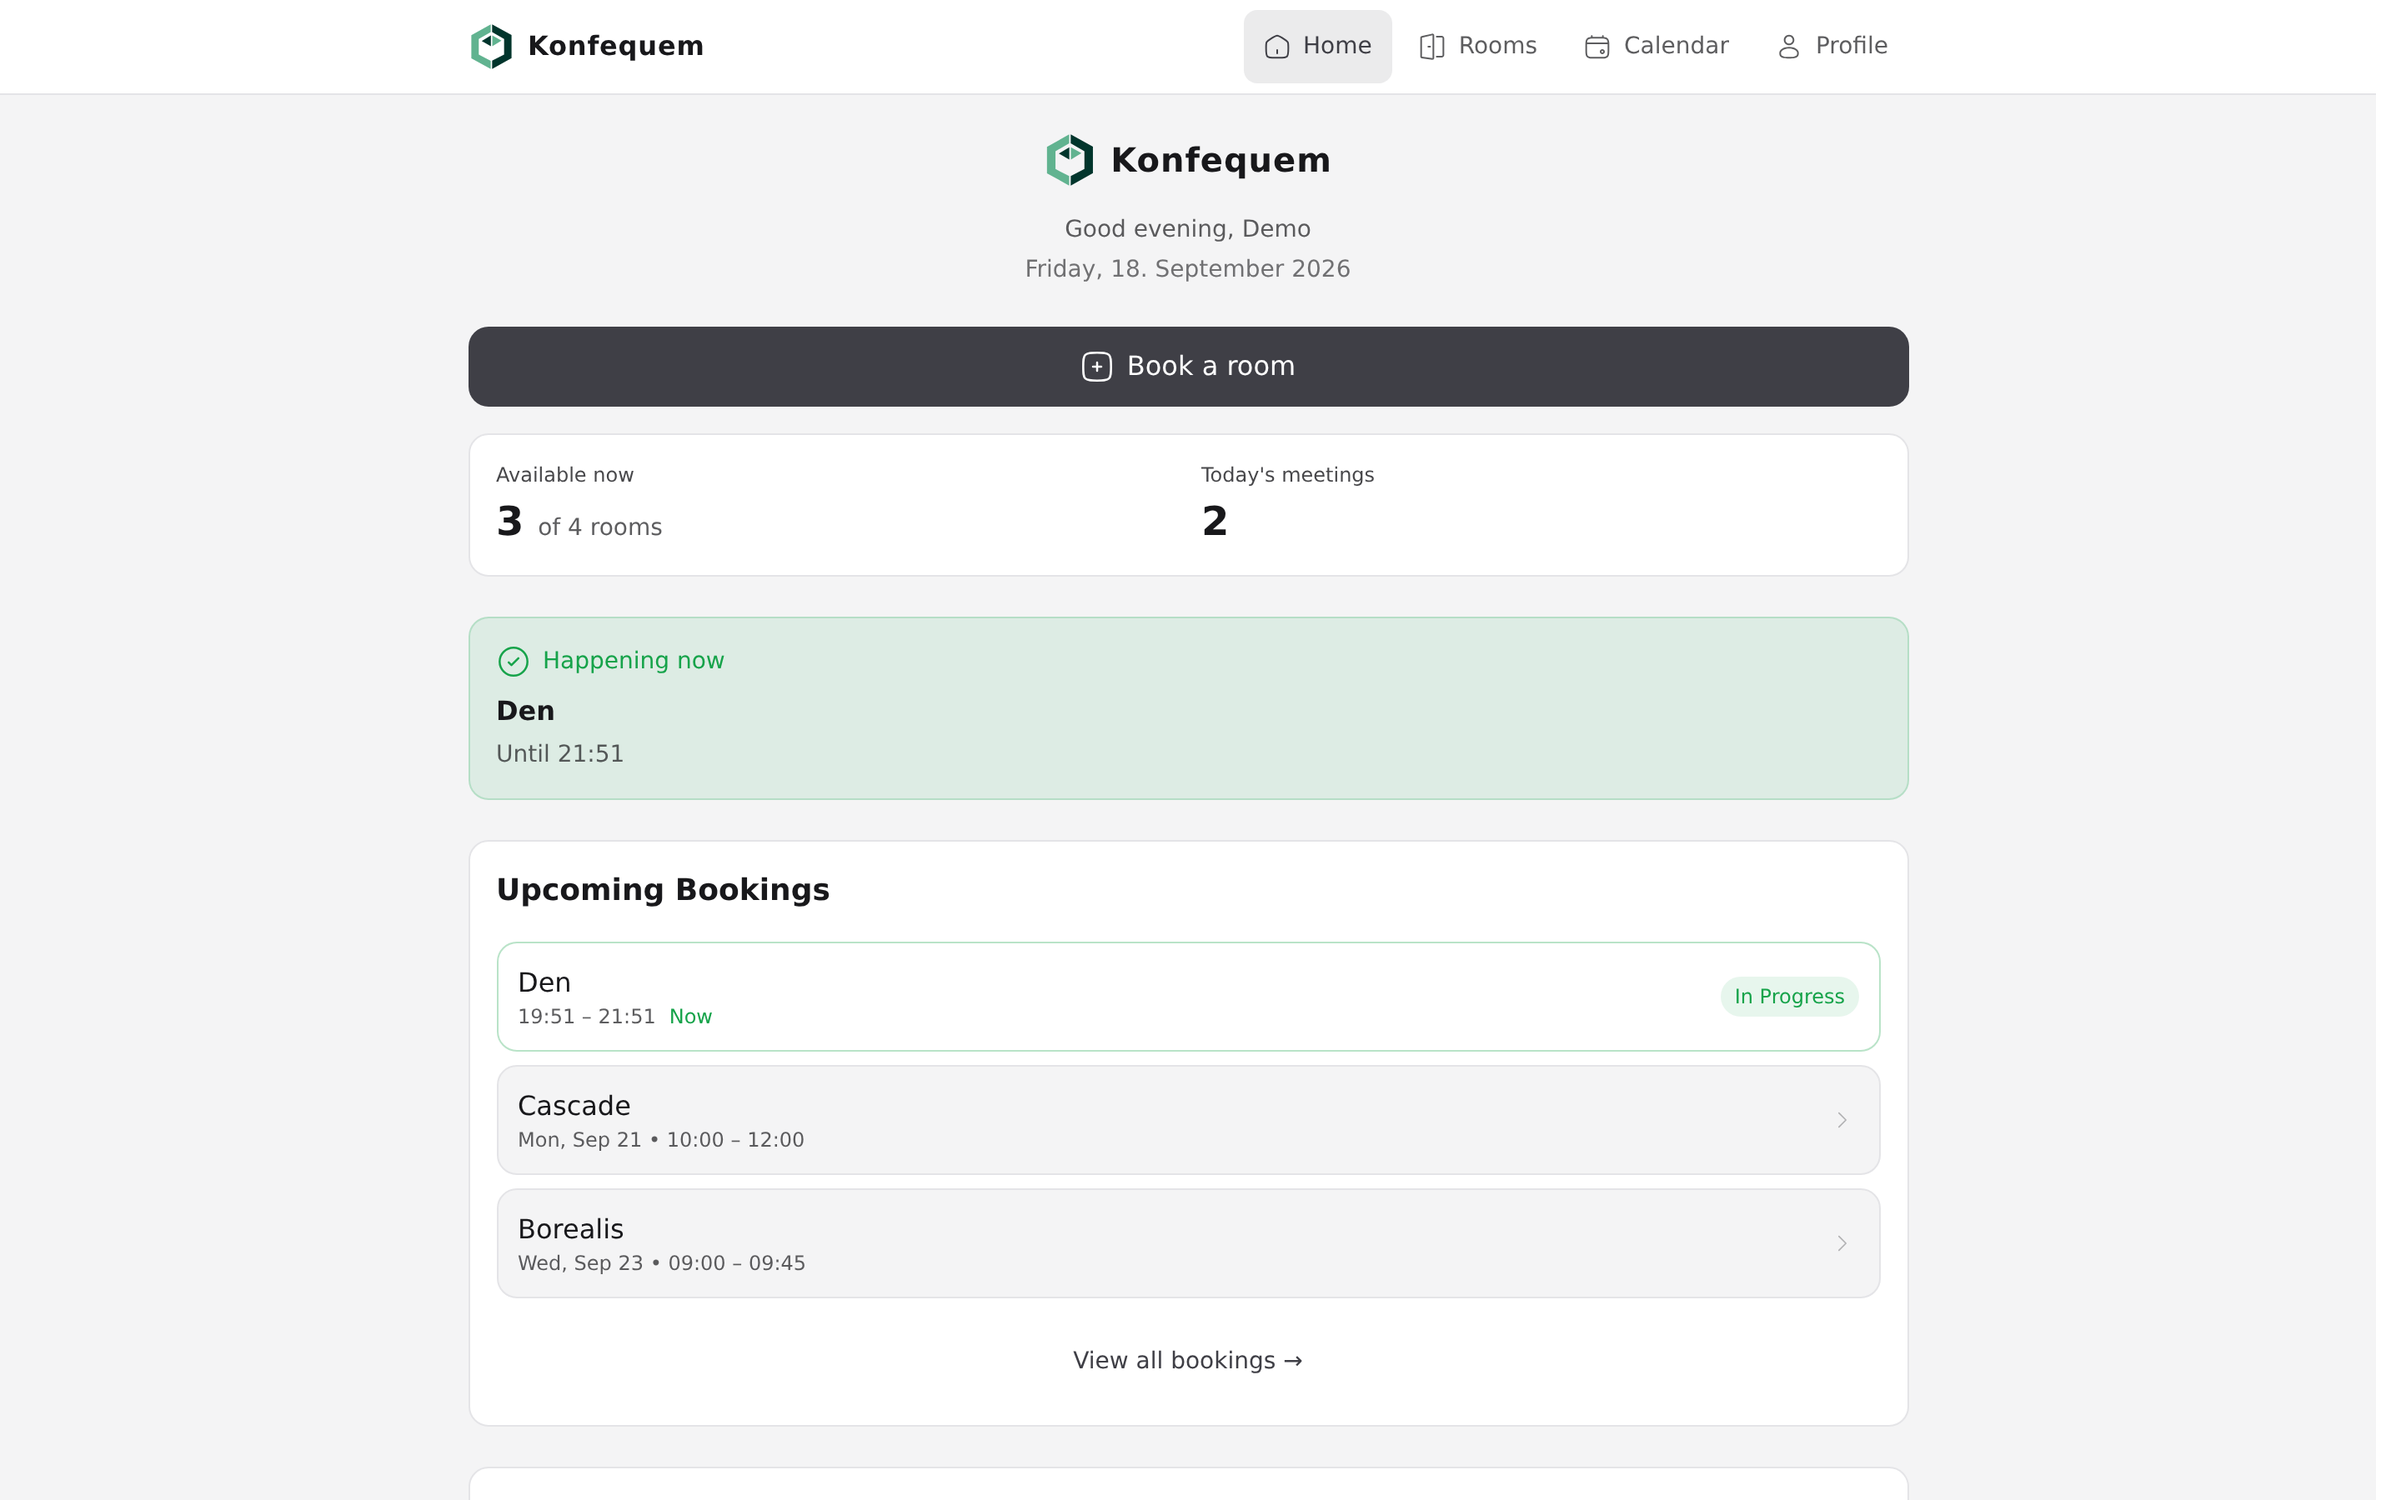
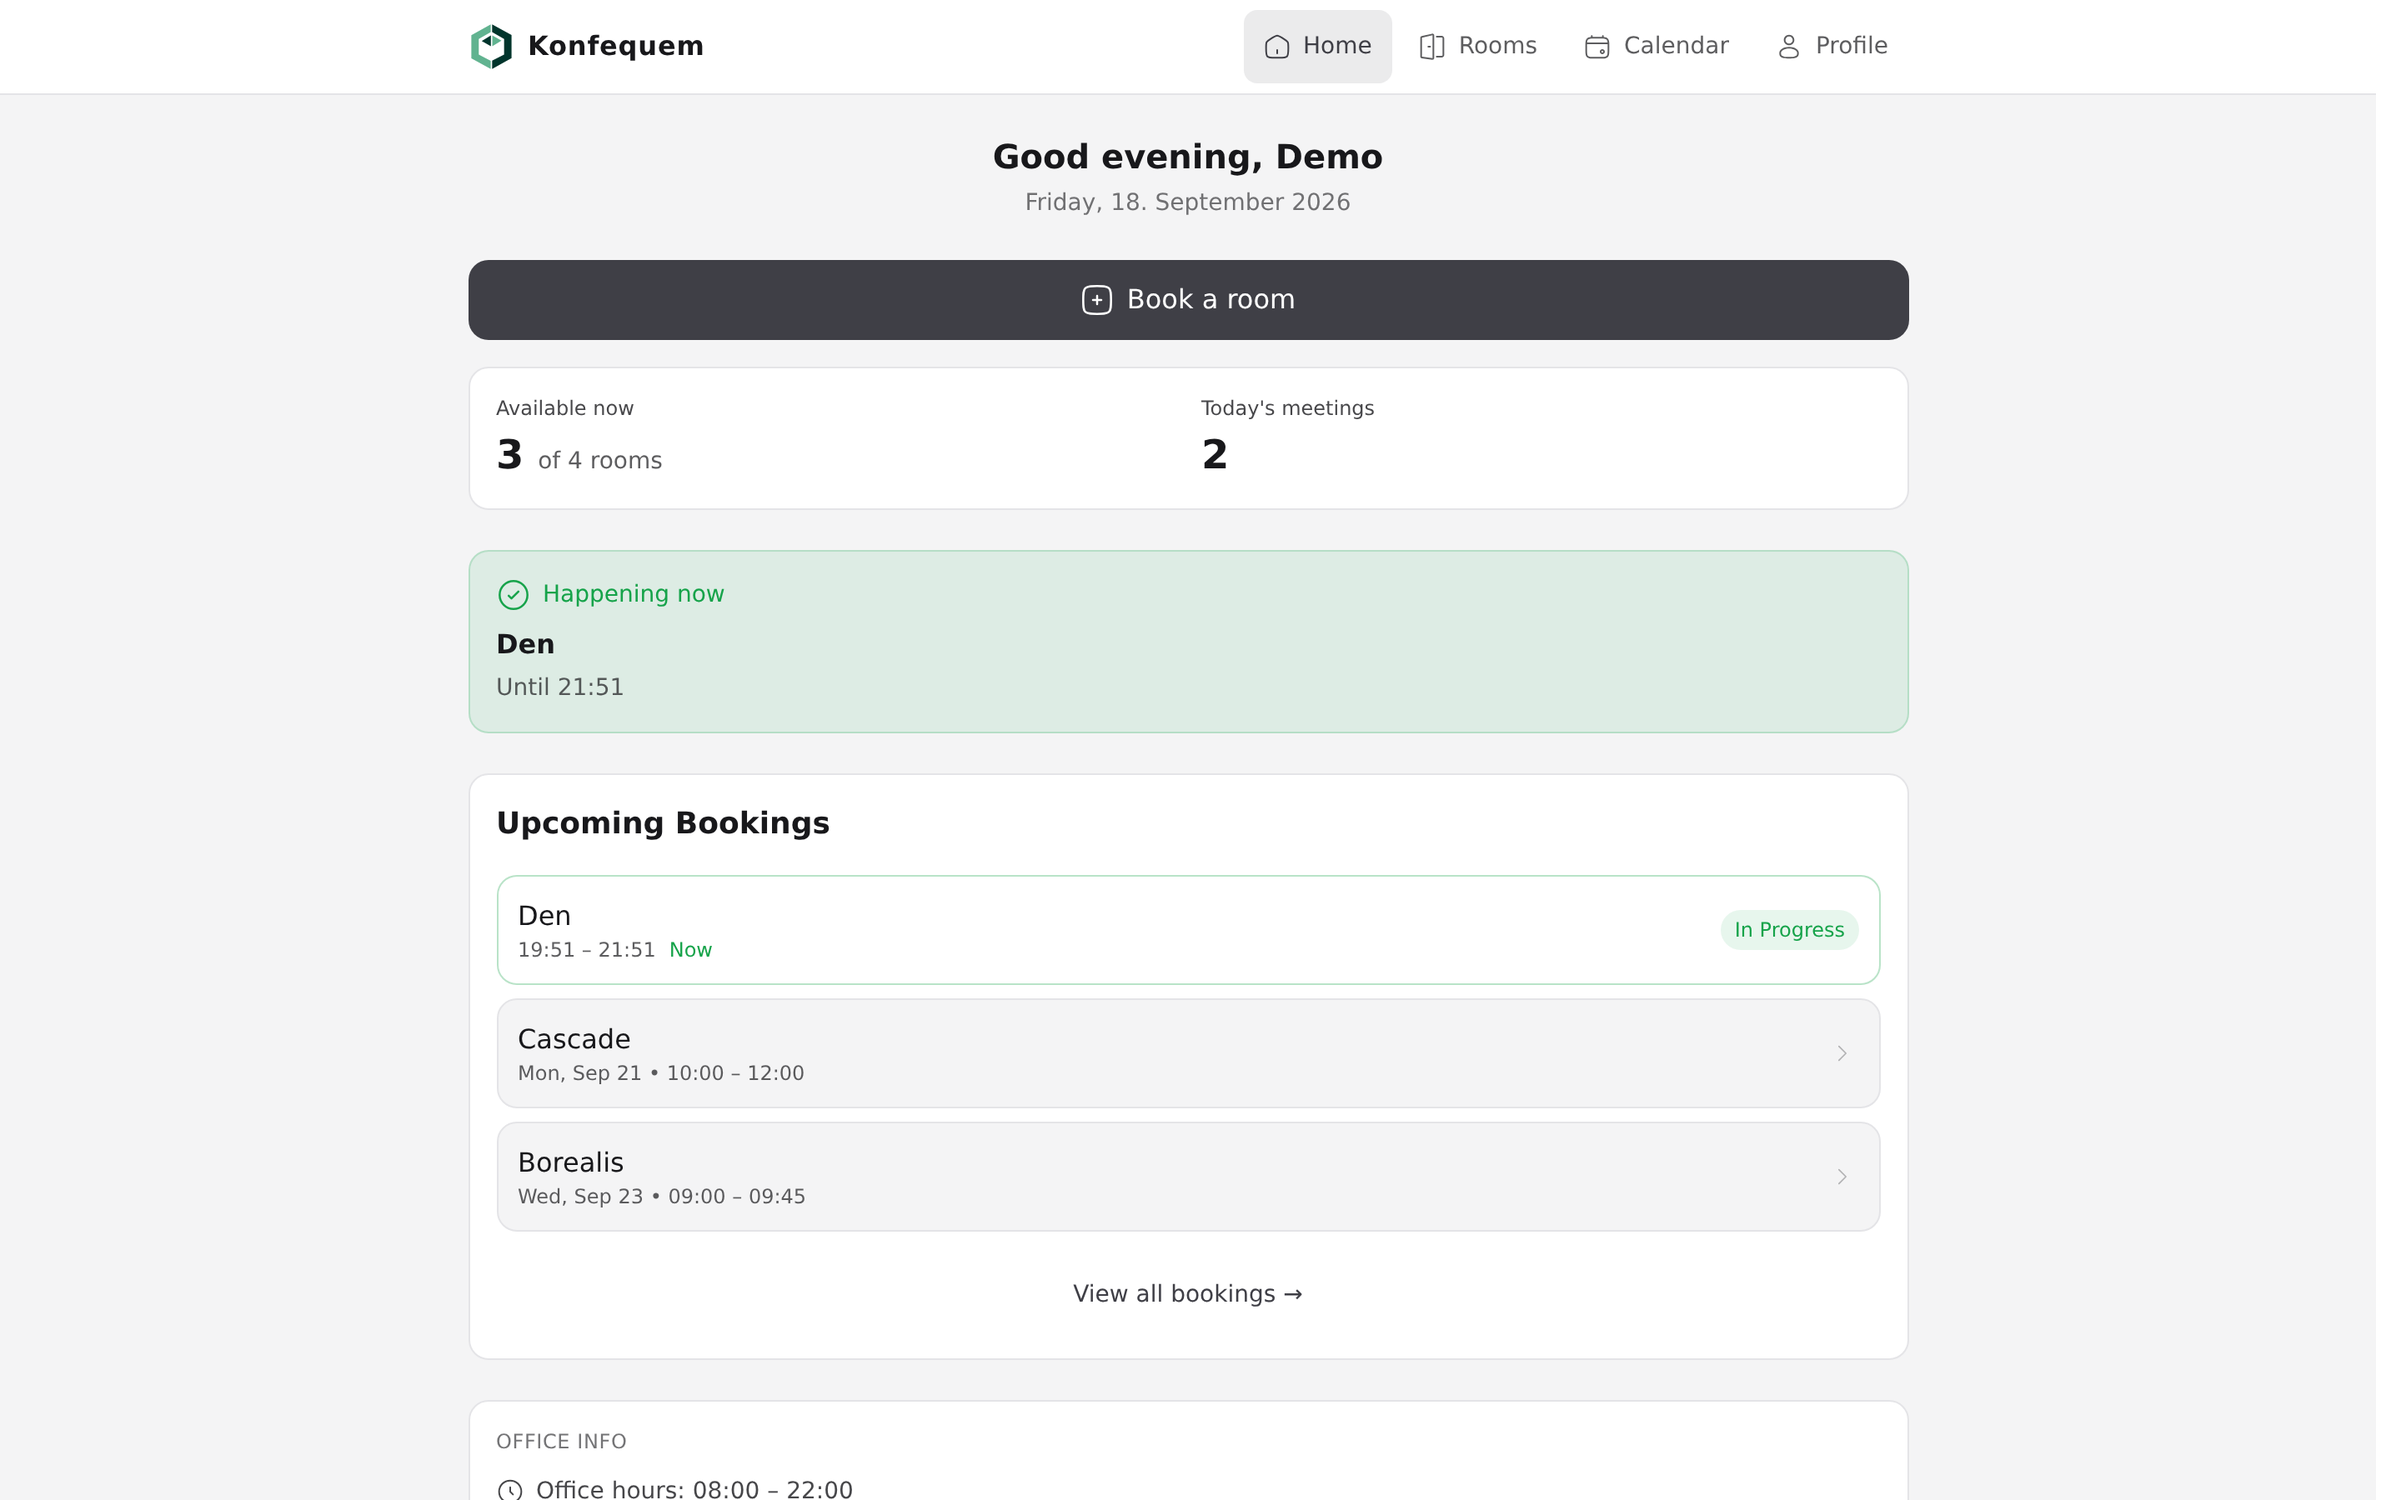
fix(frontend): drop the duplicated brand lockup on Home
The logo appeared twice on desktop since the TopNav landed: once in the
navigation bar and once in the page header. Make the greeting itself
the page heading (date stays muted below) — the brand lives in the nav,
and the loading skeleton now mirrors the greeting layout.

diff --git a/frontend/src/pages/Home.tsx b/frontend/src/pages/Home.tsx
@@ -8,7 +8,6 @@ import BottomNav from "../components/BottomNav";
 import TopNav from "../components/TopNav";
 import Button from "../components/ui/Button";
 import BookingForm from "../components/BookingForm";
-import Logo from "../components/Logo";
 import { Heading, Text } from "../components/ui/Typography";
 import { Skeleton, StatCardSkeleton, BookingListSkeleton } from "../components/ui/Skeleton";
 import EmptyState from "../components/ui/EmptyState";
@@ -199,12 +198,8 @@ export default function Home() {
       {loading && (
         <div className="px-4 pb-6 pt-6 md:pt-20 max-w-4xl mx-auto">
           <div className="mb-6">
-            <div className="flex items-center justify-center gap-1 mb-4">
-              <Skeleton className="h-5 w-28" />
-              <Skeleton className="h-5 w-5" />
-              <Skeleton className="h-5 w-28" />
-            </div>
-            <Skeleton className="h-4 w-48 mx-auto" />
+            <Skeleton className="h-6 w-52 mx-auto" />
+            <Skeleton className="h-4 w-48 mx-auto mt-2" />
           </div>
 
           <div className="grid grid-cols-2 gap-3 mb-6">
@@ -224,14 +219,10 @@ export default function Home() {
       {!loading && isAuthenticated ? (
         <div className="px-4 pb-6 pt-6 md:pt-20 max-w-4xl mx-auto">
           <section className="mb-6">
-            <div className="flex items-center justify-center gap-2 mb-4">
-              <Logo size="sm" className="h-8 w-8" alt="" />
-              <span className="text-xl font-bold tracking-wide text-accent-secondary">Konfequem</span>
-            </div>
             <div className="text-center">
-              <p className="text-sm text-accent-secondary/70">
+              <h2 className="text-xl font-semibold text-accent-secondary">
                 {getTimeBasedGreeting()}, {firstName || username || "there"}
-              </p>
+              </h2>
             </div>
             <Text variant="muted" className="text-sm text-center mt-1">
               {getTodayDate()}
